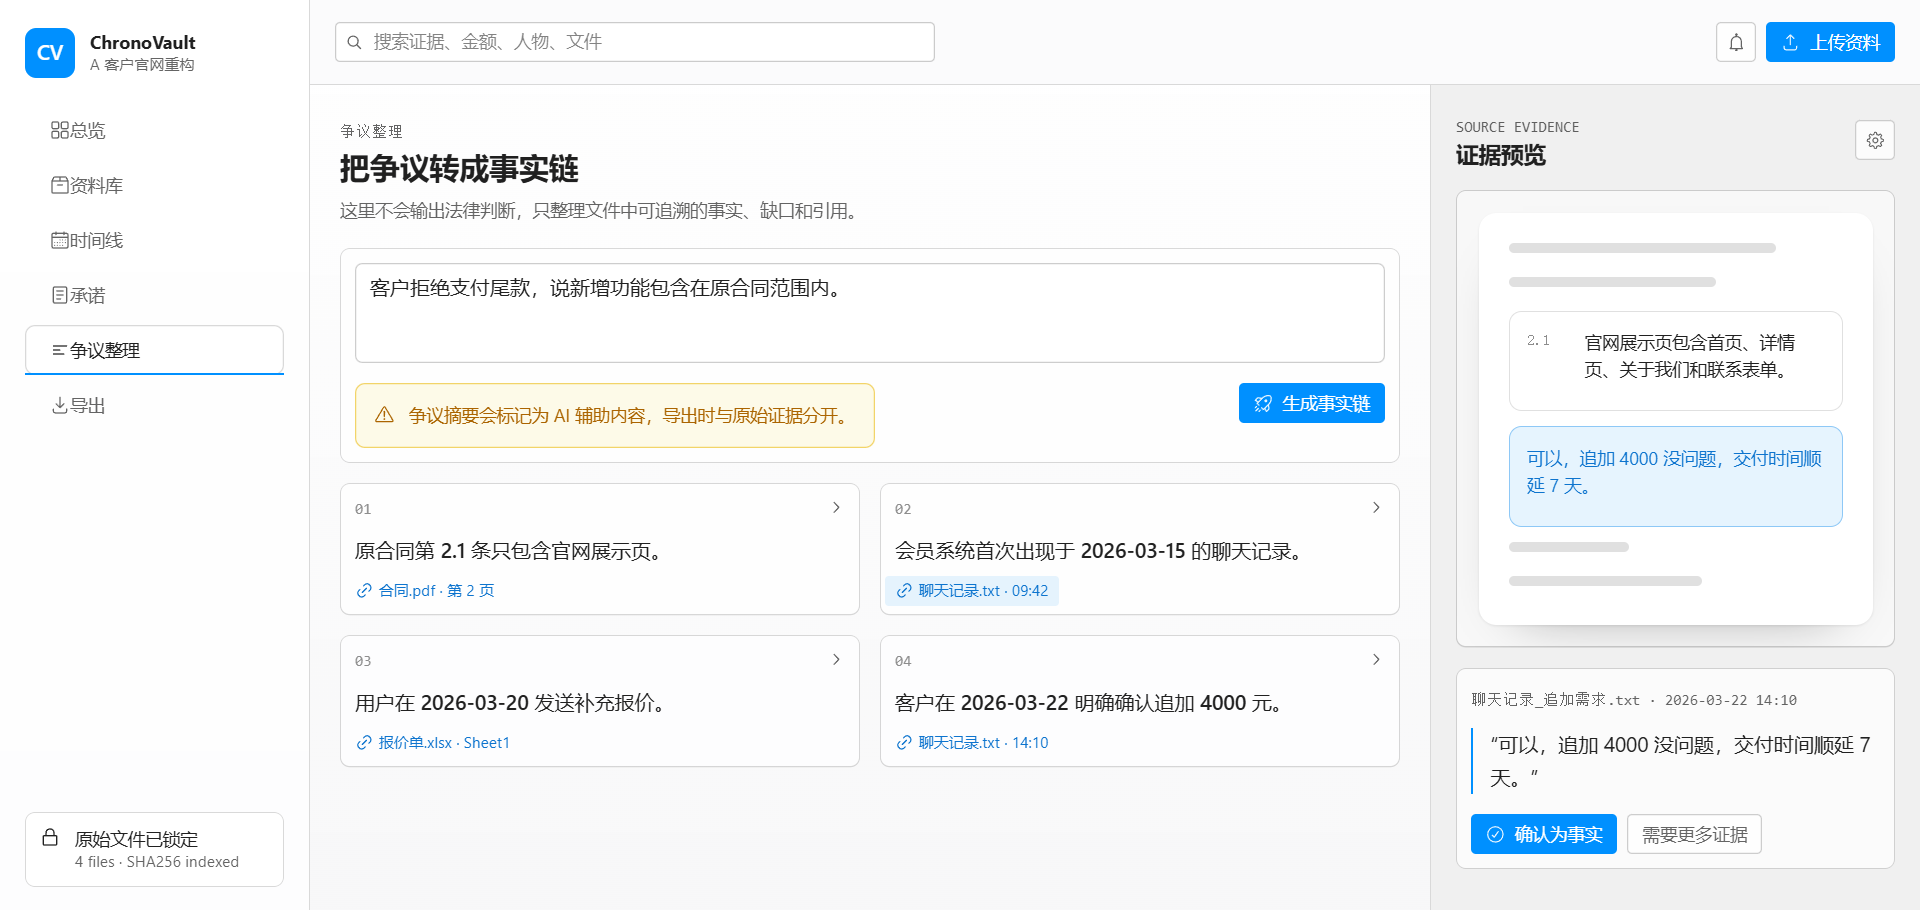
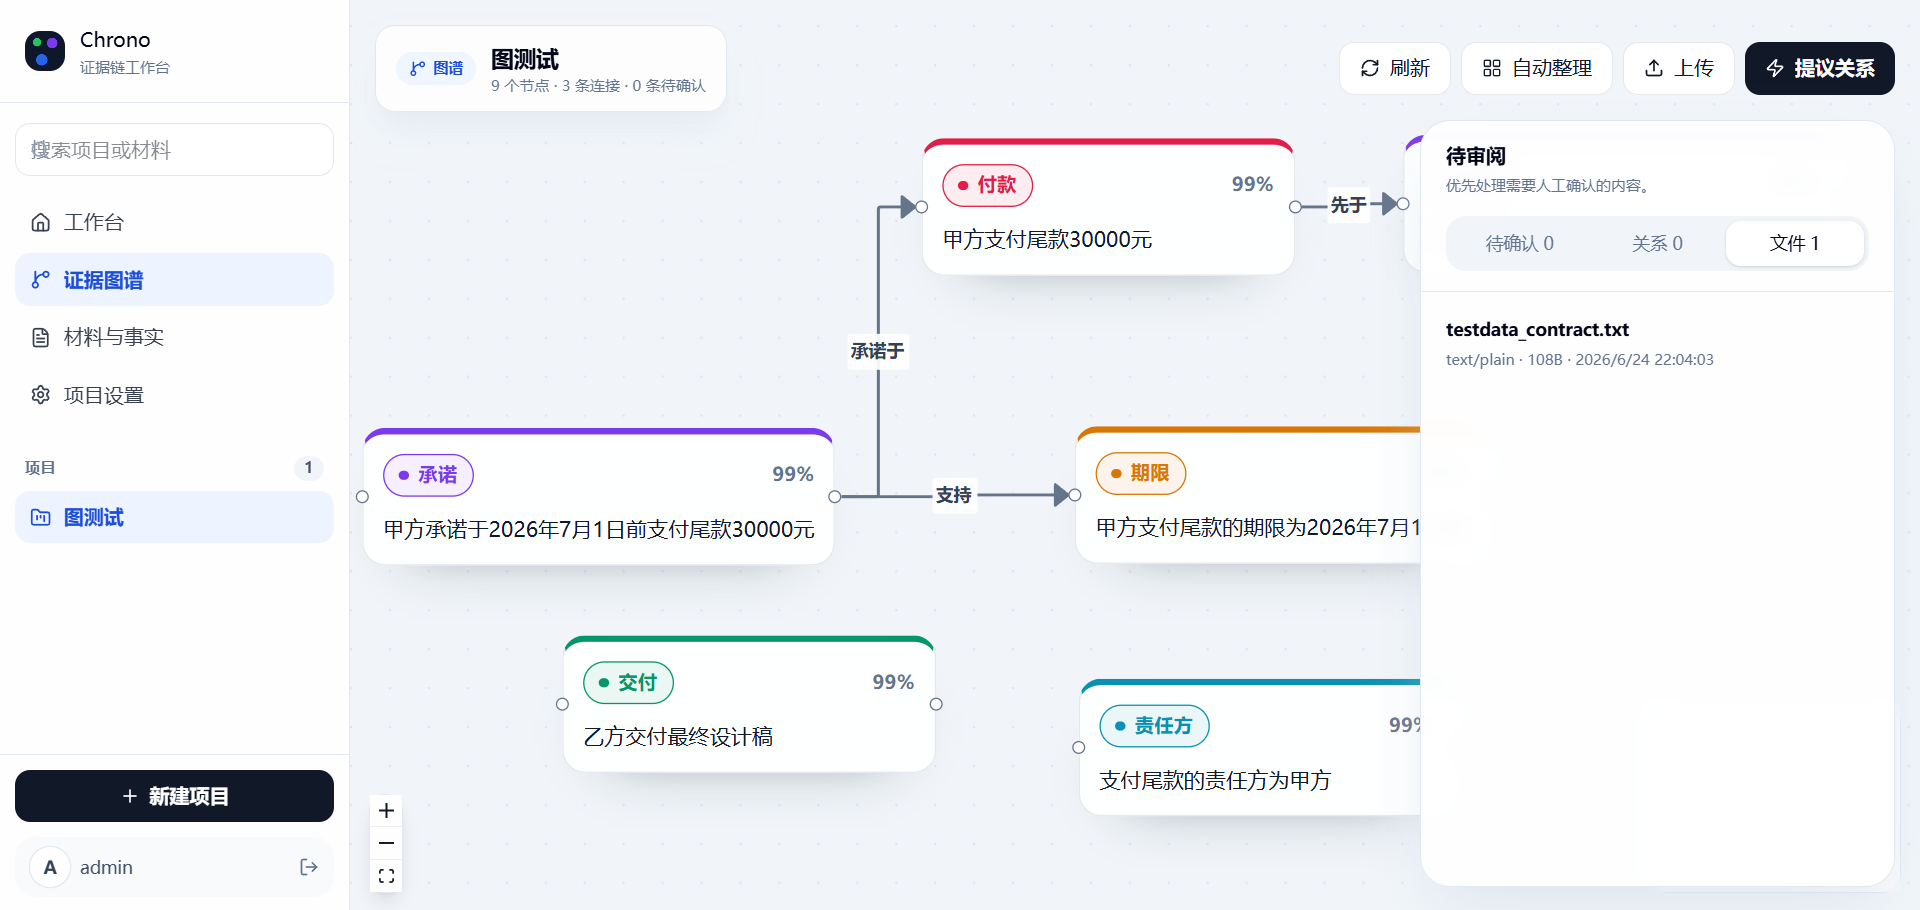
chore: update evidence preview and project order

diff --git a/app/data/portfolio.ts b/app/data/portfolio.ts
@@ -324,6 +324,14 @@ export function getProjects(isEnglish: boolean): Project[] {
         image: '/projects/easyiot-preview.png',
         previewUrl: 'https://www.easyiothings.com/'
       }, {
+        title: 'Unishop Agents',
+        subtitle: 'Automated commerce data analysis agent',
+        description: 'A multi-agent deep research system built for an e-commerce company. It can analyze real-world data such as product pricing, sales volume, store reports, and employee performance, then search supporting information, generate structured reports, and provide actionable optimization suggestions.',
+        note: 'The project uses a ReAct architecture with a think-and-act, dynamic decision-making workflow, allowing long-term store monitoring and feedback.',
+        tags: ['Vue 3', 'TypeScript', 'FastAPI', 'Python', 'LangGraph', 'OpenAI', 'Full-stack'],
+        image: '/projects/agent.png',
+        previewDisabledTip: 'Runs locally and is not online yet.'
+      }, {
         title: 'Blockchain IoT Tea Traceability System',
         subtitle: 'Tea traceability system based on blockchain and IoT',
         description: 'A university entrepreneurship project that combines smart contracts on blockchain with IoT data, making the data tamper-resistant, stable, and secure while keeping the full tea production-to-sales chain transparent.',
@@ -332,14 +340,6 @@ export function getProjects(isEnglish: boolean): Project[] {
         image: '/projects/tea-traceability.jpg',
         previewUrl: 'https://b23.tv/yor2Hbh',
         previewDisabledTip: 'University entrepreneurship project. Not online anymore.'
-      }, {
-        title: 'Unishop Agents',
-        subtitle: 'Automated commerce data analysis agent',
-        description: 'A multi-agent deep research system built for an e-commerce company. It can analyze real-world data such as product pricing, sales volume, store reports, and employee performance, then search supporting information, generate structured reports, and provide actionable optimization suggestions.',
-        note: 'The project uses a ReAct architecture with a think-and-act, dynamic decision-making workflow, allowing long-term store monitoring and feedback.',
-        tags: ['Vue 3', 'TypeScript', 'FastAPI', 'Python', 'LangGraph', 'OpenAI', 'Full-stack'],
-        image: '/projects/agent.png',
-        previewDisabledTip: 'Runs locally and is not online yet.'
       }, {
         title: 'Evidence Tracking Agent',
         subtitle: 'Agent for building evidence chains',
@@ -394,6 +394,14 @@ export function getProjects(isEnglish: boolean): Project[] {
         image: '/projects/easyiot-preview.png',
         previewUrl: 'https://www.easyiothings.com/'
       }, {
+        title: 'Unishop Agents',
+        subtitle: '自动化数据分析智能体',
+        description: '为电商公司打造的多Agent协作深度研究系统，自动可以根据商品定价、销售量、店铺报表、员工绩效等一切现实数据，搜索资料并生成结构化报告,并给出可执行的优化建议。',
+        note: '项目采用ReAct架构实现，具有“边想边做，动态决策”的特点，可对店铺进行长期监测反馈',
+        tags: ['Vue 3', 'TypeScript', 'FastAPI', 'Python', 'LangGraph', 'OpenAI', '全栈'],
+        image: '/projects/agent.png',
+        previewDisabledTip: '本地运行，暂不上线，请理解'
+      }, {
         title: '基于区块链和物联网系统的茶叶溯源系统',
         subtitle: '区块链 + 物联网茶叶溯源系统',
         description: '大学创业项目，将智能合约（区块链）和物联网数据结合，实现数据不可篡改、稳定安全，保障茶叶在生产到销售全链路数据透明。',
@@ -402,14 +410,6 @@ export function getProjects(isEnglish: boolean): Project[] {
         image: '/projects/tea-traceability.jpg',
         previewUrl: 'https://b23.tv/yor2Hbh',
         previewDisabledTip: '大学创业项目，当前已停止运营。'
-      }, {
-        title: 'Unishop Agents',
-        subtitle: '自动化数据分析智能体',
-        description: '为电商公司打造的多Agent协作深度研究系统，自动可以根据商品定价、销售量、店铺报表、员工绩效等一切现实数据，搜索资料并生成结构化报告,并给出可执行的优化建议。',
-        note: '项目采用ReAct架构实现，具有“边想边做，动态决策”的特点，可对店铺进行长期监测反馈',
-        tags: ['Vue 3', 'TypeScript', 'FastAPI', 'Python', 'LangGraph', 'OpenAI', '全栈'],
-        image: '/projects/agent.png',
-        previewDisabledTip: '本地运行，暂不上线，请理解'
       }, {
         title: '证据追踪Agent',
         subtitle: '完整证据链分析智能体',